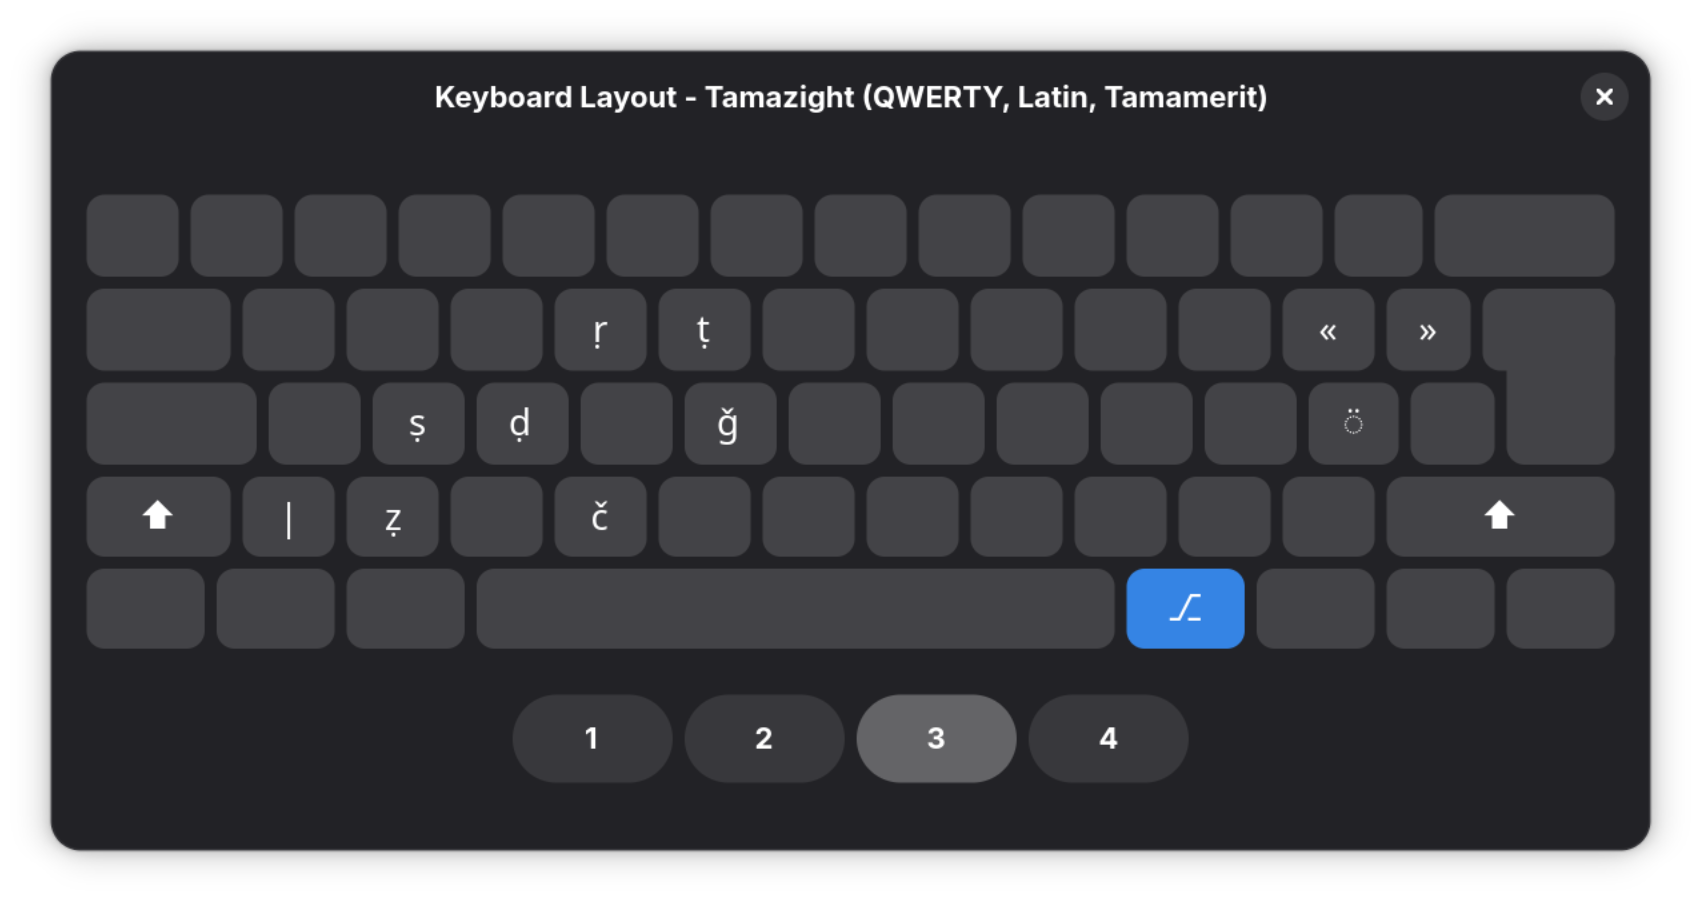
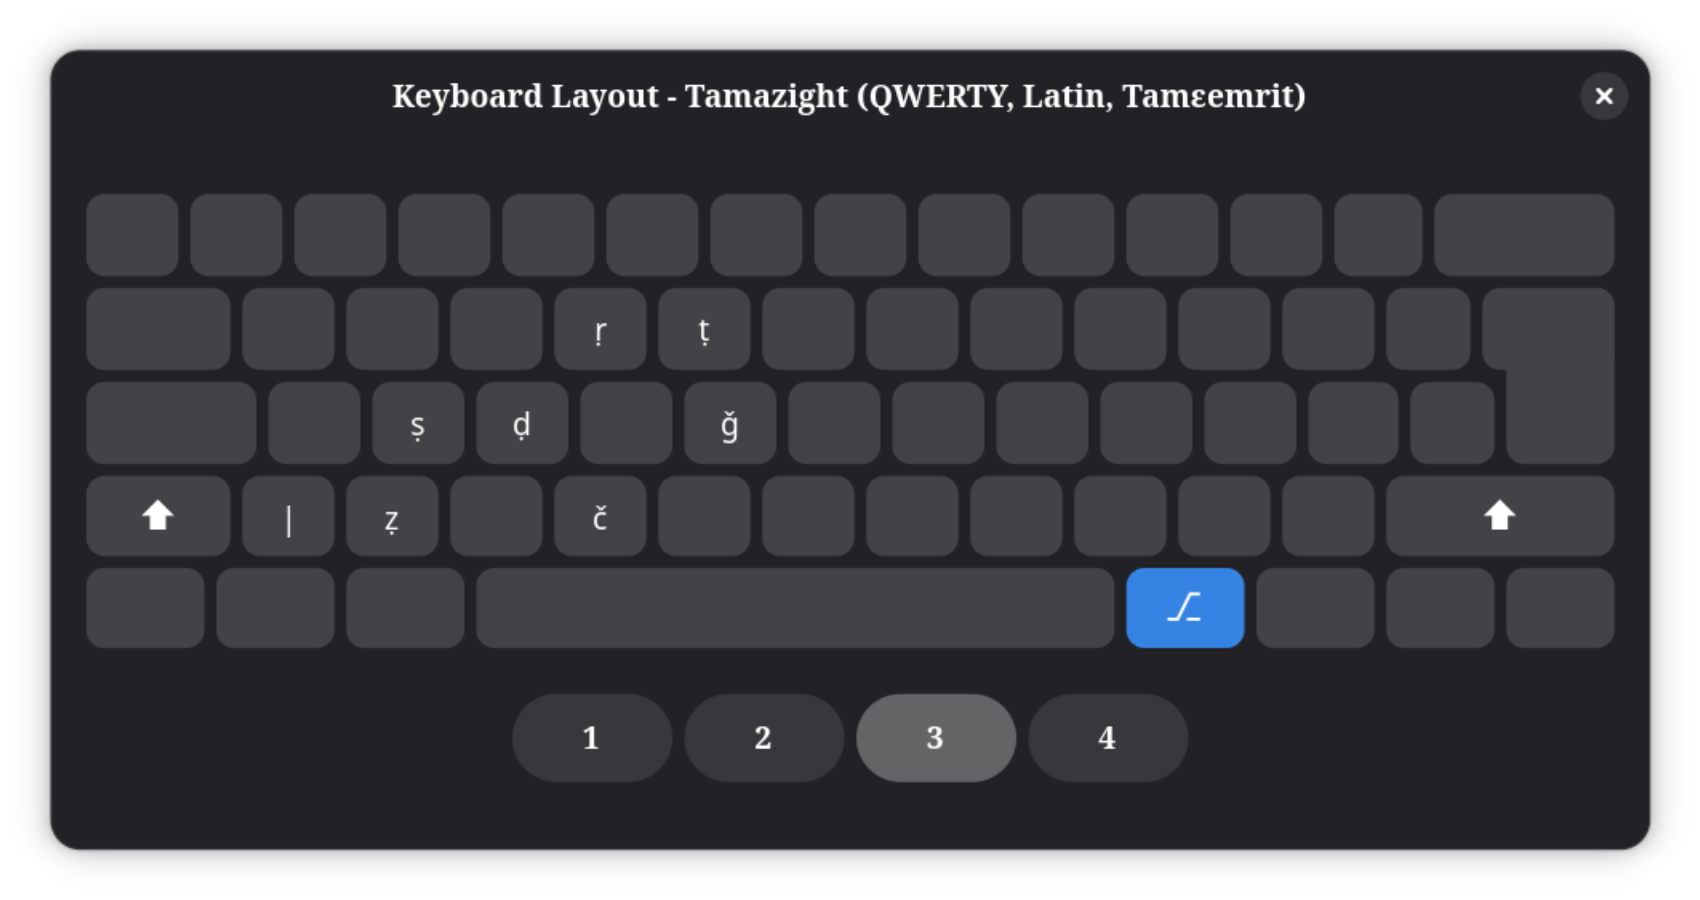
docs(README.md): Correct the word 'Tamamerit' to 'Tamɛemrit'

diff --git a/README.md b/README.md
@@ -1,6 +1,6 @@
 # ⌨ Tamazight Keyboard Layout for Linux
 
-A one-script installer that adds a **Tamazight (QWERTY - Latin - Tamamerit) keyboard layout** to GNOME on Linux — no manual XKB editing, no reboot required.
+A one-script installer that adds a **Tamazight (QWERTY - Latin - Tamɛemrit) keyboard layout** to GNOME on Linux — no manual XKB editing, no reboot required.
 
 ---
 
@@ -60,7 +60,7 @@ Super + Space
 
 Or open **Settings → Keyboard → Input Sources** to manage layouts visually.
 
-The layout appears as **"Tamazight (QWERTY, Latin, Tamamerit)"** in the GNOME input source selector.
+The layout appears as **"Tamazight (QWERTY, Latin, Tamɛemrit)"** in the GNOME input source selector.
 
 <img src="assets/5.png" alt="Window" width="400"/>
 
